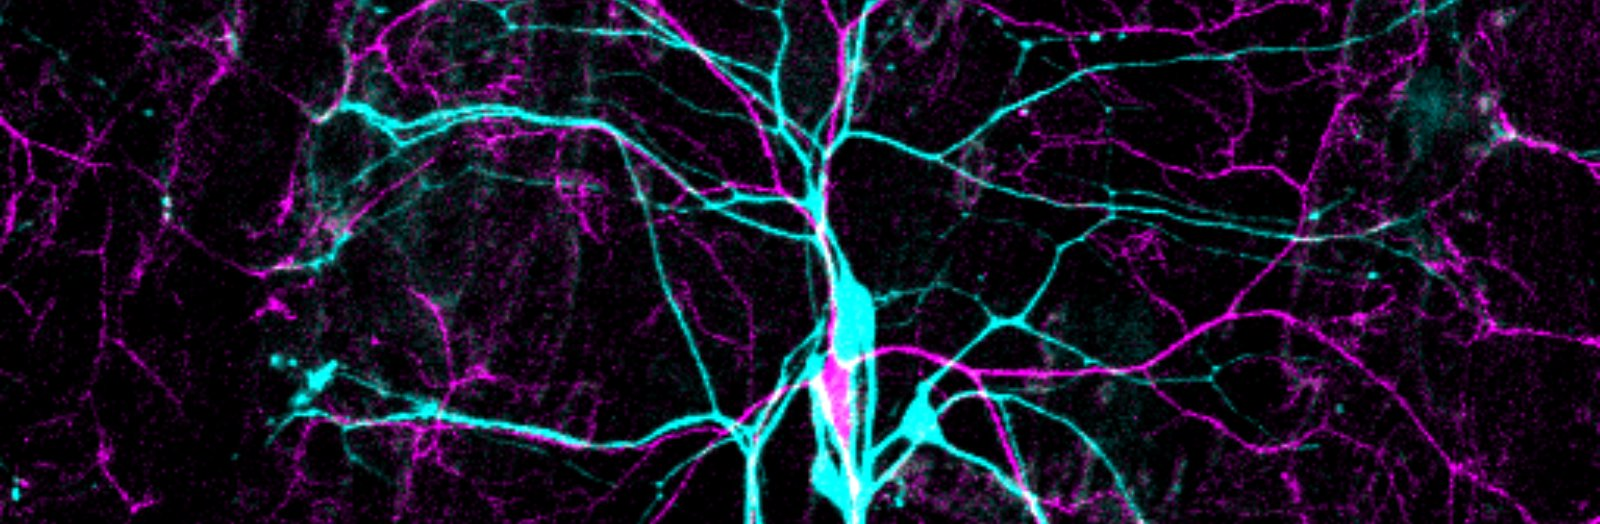
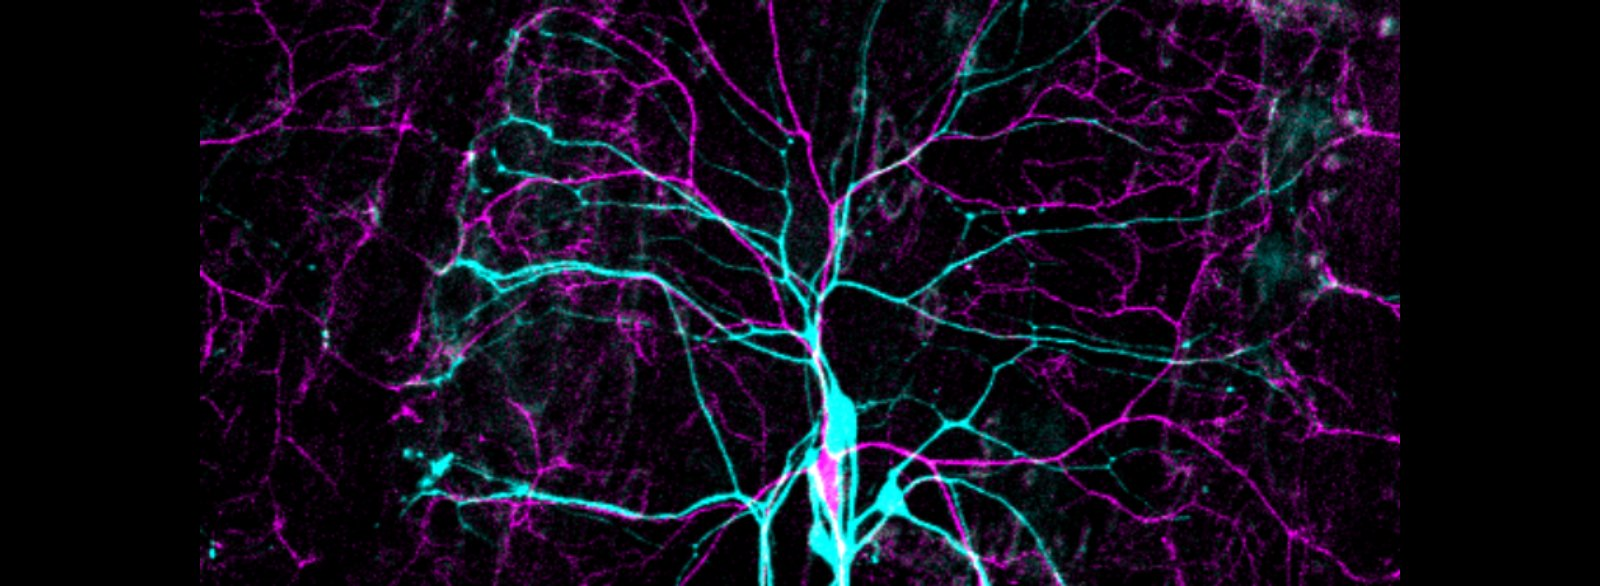
picture updates and annotation

diff --git a/publications/index.html b/publications/index.html
@@ -10,7 +10,7 @@
     <meta charset="utf-8">
 
 <!-- begin _includes/seo.html --><title>Publications - Jaszczak Lab</title>
-<meta name="description" content="">
+<meta name="description" content="&quot;An appreciable share of credit for the fine accomplishments in Drosophila genetics is due to the... workers who established the policy of a free exchange of material and information among all...&quot;">
 
 
   <meta name="author" content="Jacob Jaszczak, PhD">
@@ -24,11 +24,11 @@
 <meta property="og:url" content="https://jaszczak.org/publications/">
 
 
-  <meta property="og:description" content="">
+  <meta property="og:description" content="&quot;An appreciable share of credit for the fine accomplishments in Drosophila genetics is due to the... workers who established the policy of a free exchange of material and information among all...&quot;">
 
 
 
-  <meta property="og:image" content="https://jaszczak.org/assets/images/probe_pic.jpg">
+  <meta property="og:image" content="https://jaszczak.org/assets/images/pub_page.jpg">
 
 
 
@@ -164,7 +164,7 @@
 
 
 <div class="page__hero--overlay"
-  style="background-color: #000; background-image: linear-gradient(rgba(0, 0, 0, 0.5), rgba(0, 0, 0, 0.5)), url('/assets/images/probe_pic.jpg');"
+  style="background-color: #000; background-image: linear-gradient(rgba(0, 0, 0, 0.3), rgba(0, 0, 0, 0.3)), url('/assets/images/pub_page.jpg');"
 >
   
     <div class="wrapper">
@@ -175,7 +175,8 @@
         
       </h1>
       
-        <p class="page__lead"><br />
+        <p class="page__lead"><h3>"An appreciable share of credit for the fine accomplishments in Drosophila genetics is due to the... workers who established the policy of a free exchange of material and information among all..."<h3>
+</h3></h3>
 </p>
       
       
@@ -186,6 +187,9 @@
     </div>
   
   
+    <span class="page__hero-caption">Quote: <a href="https://www.ou.edu/journals/dis/">DIS 1994</a>
+</span>
+  
 </div>
 
 
@@ -193,7 +197,7 @@
 <div id="main" role="main">
   <article class="splash" itemscope itemtype="https://schema.org/CreativeWork">
     <meta itemprop="headline" content="Publications">
-    <meta itemprop="description" content="">
+    <meta itemprop="description" content="&quot;An appreciable share of credit for the fine accomplishments in Drosophila genetics is due to the... workers who established the policy of a free exchange of material and information among all...&quot;">
     
     
 

diff --git a/people/index.html b/people/index.html
@@ -10,7 +10,7 @@
     <meta charset="utf-8">
 
 <!-- begin _includes/seo.html --><title>People - Jaszczak Lab</title>
-<meta name="description" content="The Jaszczak Lab explores how the sensory system is built and tuned through Drosophila genetics, live imaging, and behavioral experiments.">
+<meta name="description" content="">
 
 
   <meta name="author" content="Jacob Jaszczak, PhD">
@@ -24,11 +24,11 @@
 <meta property="og:url" content="https://jaszczak.org/people/">
 
 
-  <meta property="og:description" content="The Jaszczak Lab explores how the sensory system is built and tuned through Drosophila genetics, live imaging, and behavioral experiments.">
+  <meta property="og:description" content="">
 
 
 
-  <meta property="og:image" content="https://jaszczak.org/assets/images/unsplash-image-1.jpg">
+  <meta property="og:image" content="https://jaszczak.org/assets/images/organ.jpg">
 
 
 
@@ -164,7 +164,7 @@
 
 
 <div class="page__hero--overlay"
-  style="background-color: #000; background-image: linear-gradient(rgba(0, 0, 0, 0.5), rgba(0, 0, 0, 0.5)), url('/assets/images/unsplash-image-1.jpg');"
+  style="background-color: #000; background-image: linear-gradient(rgba(0, 0, 0, 0), rgba(0, 0, 0, 0)), url('/assets/images/organ.jpg');"
 >
   
     <div class="wrapper">
@@ -175,6 +175,9 @@
         
       </h1>
       
+        <p class="page__lead"><br />
+</p>
+      
       
 
 
@@ -183,6 +186,9 @@
     </div>
   
   
+    <span class="page__hero-caption">Organ mountians seen from Las Cruces.<a href="https://brand.nmsu.edu/photography/index.html">NMSU</a>
+</span>
+  
 </div>
 
 
@@ -190,7 +196,7 @@
 <div id="main" role="main">
   <article class="splash" itemscope itemtype="https://schema.org/CreativeWork">
     <meta itemprop="headline" content="People">
-    
+    <meta itemprop="description" content="">
     
     
 

diff --git a/resources/index.html b/resources/index.html
@@ -10,7 +10,7 @@
     <meta charset="utf-8">
 
 <!-- begin _includes/seo.html --><title>Resources - Jaszczak Lab</title>
-<meta name="description" content="The Jaszczak Lab explores how the sensory system is built and tuned through Drosophila genetics, live imaging, and behavioral experiments.">
+<meta name="description" content="">
 
 
   <meta name="author" content="Jacob Jaszczak, PhD">
@@ -24,7 +24,7 @@
 <meta property="og:url" content="https://jaszczak.org/resources/">
 
 
-  <meta property="og:description" content="The Jaszczak Lab explores how the sensory system is built and tuned through Drosophila genetics, live imaging, and behavioral experiments.">
+  <meta property="og:description" content="">
 
 
 
@@ -175,6 +175,9 @@
         
       </h1>
       
+        <p class="page__lead"><br />
+</p>
+      
       
 
 
@@ -183,6 +186,9 @@
     </div>
   
   
+    <span class="page__hero-caption">a growing diatom shell. JSJ. FE-SEM.
+</span>
+  
 </div>
 
 
@@ -190,7 +196,7 @@
 <div id="main" role="main">
   <article class="splash" itemscope itemtype="https://schema.org/CreativeWork">
     <meta itemprop="headline" content="Resources">
-    
+    <meta itemprop="description" content="">
     
     
 

diff --git a/contact/index.html b/contact/index.html
@@ -28,7 +28,7 @@
 
 
 
-  <meta property="og:image" content="https://jaszczak.org/assets/images/unsplash-image-1.jpg">
+  <meta property="og:image" content="https://jaszczak.org/assets/images/H10Fruitfly.jpg">
 
 
 
@@ -164,7 +164,7 @@
 
 
 <div class="page__hero--overlay"
-  style="background-color: #000; background-image: linear-gradient(rgba(0, 0, 0, 0.5), rgba(0, 0, 0, 0.5)), url('/assets/images/unsplash-image-1.jpg');"
+  style="background-color: #000; background-image: linear-gradient(rgba(0, 0, 0, 0.3), rgba(0, 0, 0, 0.3)), url('/assets/images/H10Fruitfly.jpg');"
 >
   
     <div class="wrapper">
@@ -182,6 +182,9 @@
       
     </div>
   
+  
+    <span class="page__hero-caption">Source: <a href="http://www.cdb.riken.jp/en/learningcenter/multimedia/cdb_piccard.html">RIKEN CDB</a>
+</span>
   
 </div>
 

diff --git a/research/index.html b/research/index.html
@@ -28,7 +28,7 @@
 
 
 
-  <meta property="og:image" content="https://jaszczak.org/assets/images/unsplash-image-1.jpg">
+  <meta property="og:image" content="https://jaszczak.org/assets/images/probe_pic.jpg">
 
 
 
@@ -164,7 +164,7 @@
 
 
 <div class="page__hero--overlay"
-  style="background-color: #000; background-image: linear-gradient(rgba(0, 0, 0, 0.5), rgba(0, 0, 0, 0.5)), url('/assets/images/unsplash-image-1.jpg');"
+  style="background-color: #000; background-image: linear-gradient(rgba(0, 0, 0, 0), rgba(0, 0, 0, 0)), url('/assets/images/probe_pic.jpg');"
 >
   
     <div class="wrapper">
@@ -185,6 +185,9 @@
       
     </div>
   
+  
+    <span class="page__hero-caption">larva during nociception assay. JSJ.
+</span>
   
 </div>
 

diff --git a/index.html b/index.html
@@ -194,6 +194,9 @@
     </div>
   
   
+    <span class="page__hero-caption">a C4da neuron among larva peripheral nerves. JSJ.
+</span>
+  
 </div>
 
 
@@ -273,10 +276,7 @@
       <div class="archive__item">
         
           <div class="archive__item-teaser">
-            <img src="/assets/images/pile-colorful-magazines-table.jpg" alt="publications" />
-            
-              <span class="archive__item-caption"><a href="https://www.freepik.com/free-photo/pile-colorful-magazines-table_6048615.htm#query=publication&amp;position=13&amp;from_view=keyword&amp;track=sph">Image by Racool_studio</a>
-</span>
+            <img src="/assets/images/pub_front.jpg" alt="publications" />
             
           </div>
         
